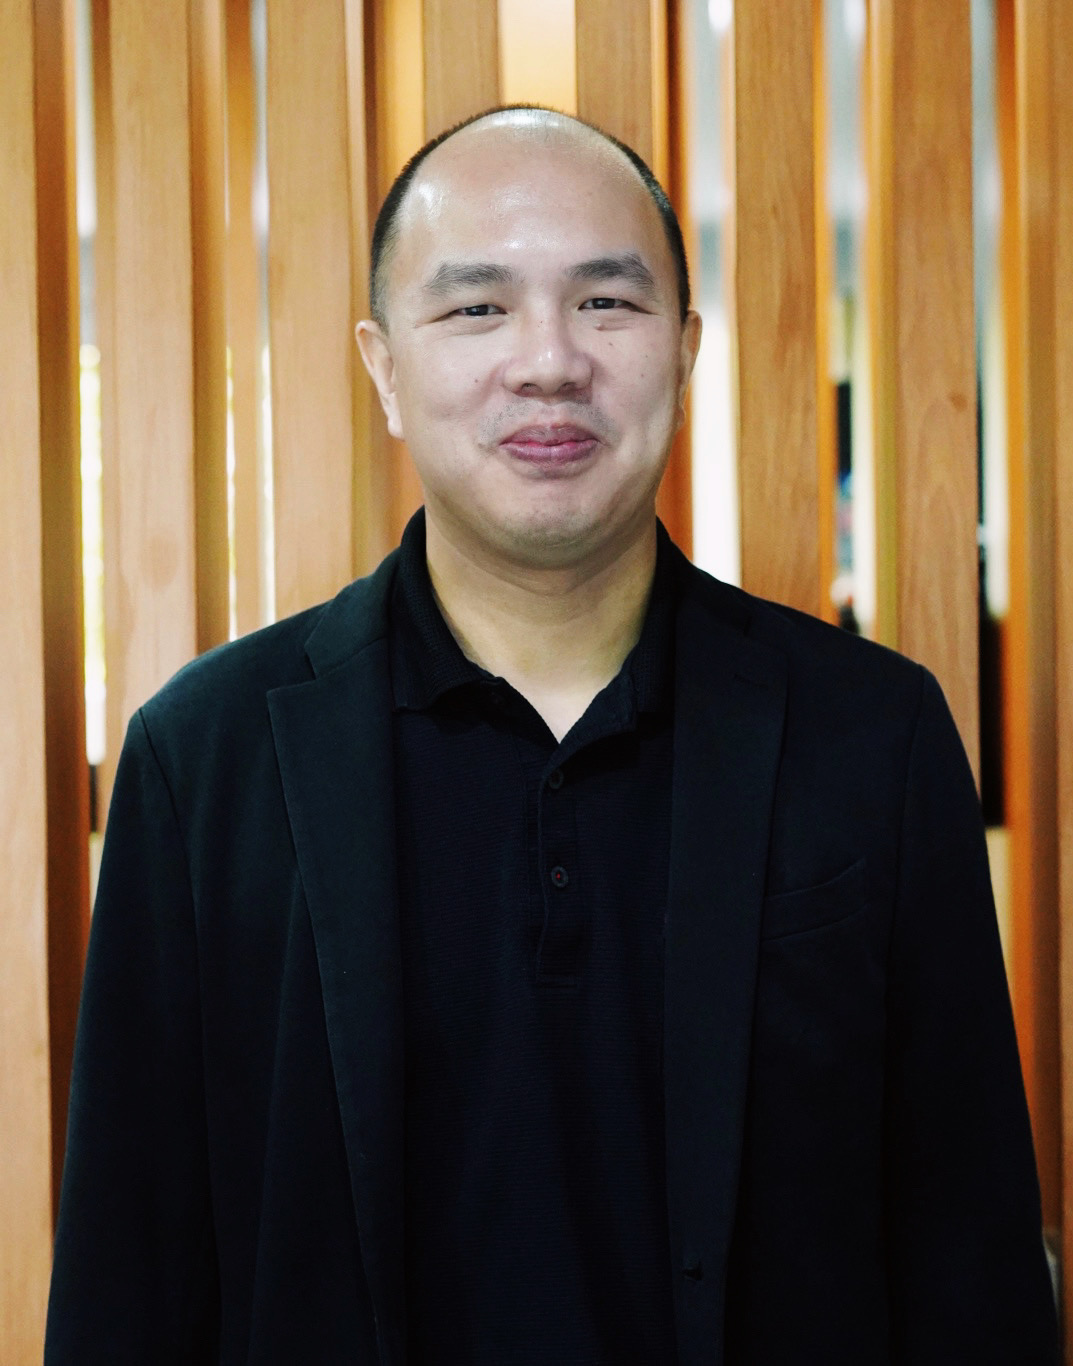
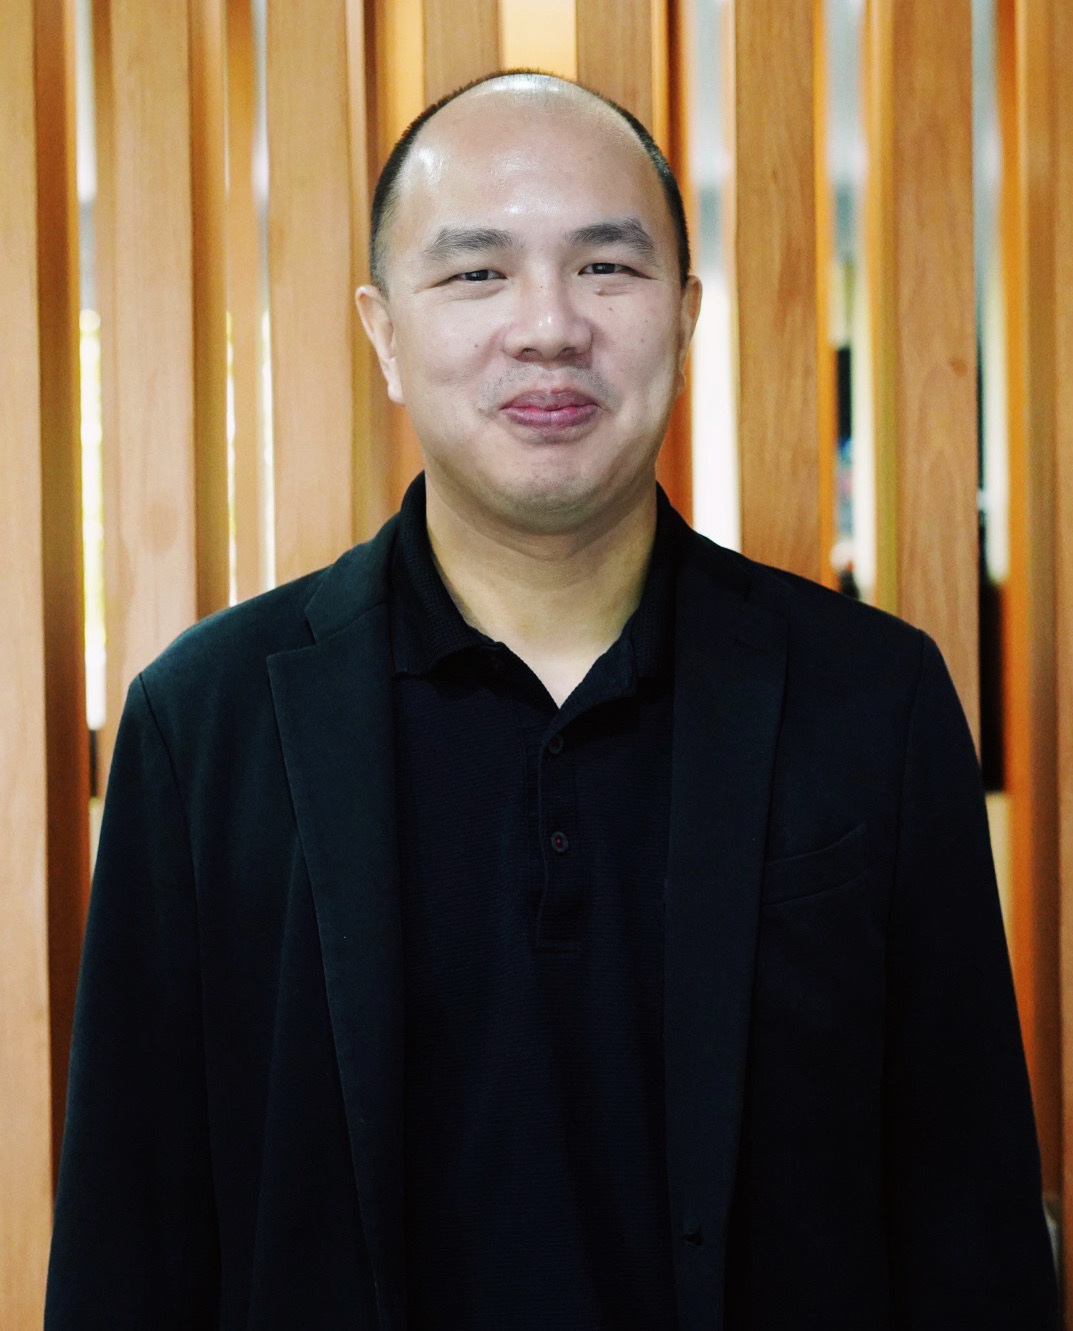
resize the photos

diff --git a/themes/chaklam/layouts/index.html b/themes/chaklam/layouts/index.html
@@ -385,7 +385,7 @@
             </div>
             <div class="member-info">
               <h4>Sanjeet Amatya</h4>
-              <span>CEO, CBO</span>
+              <span>CEO, CBDO</span>
             </div>
           </div>
         </div>
